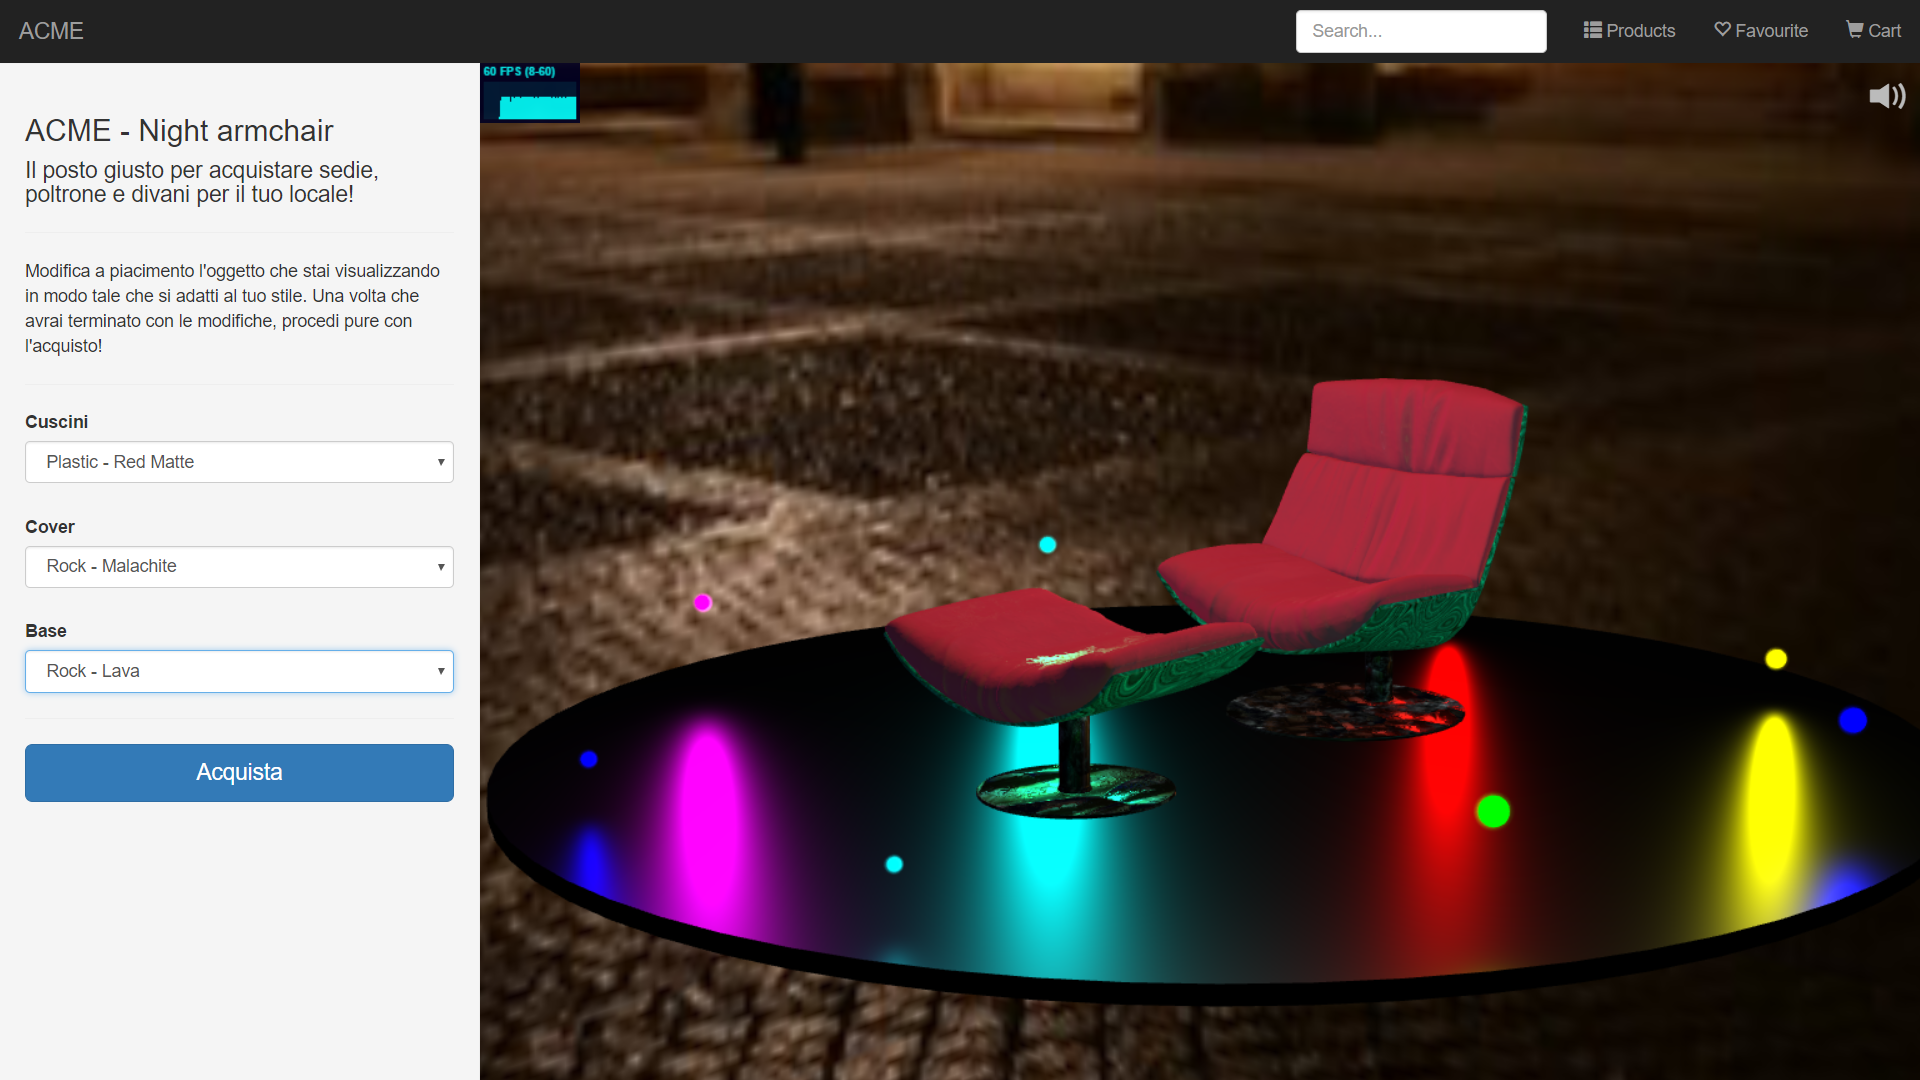
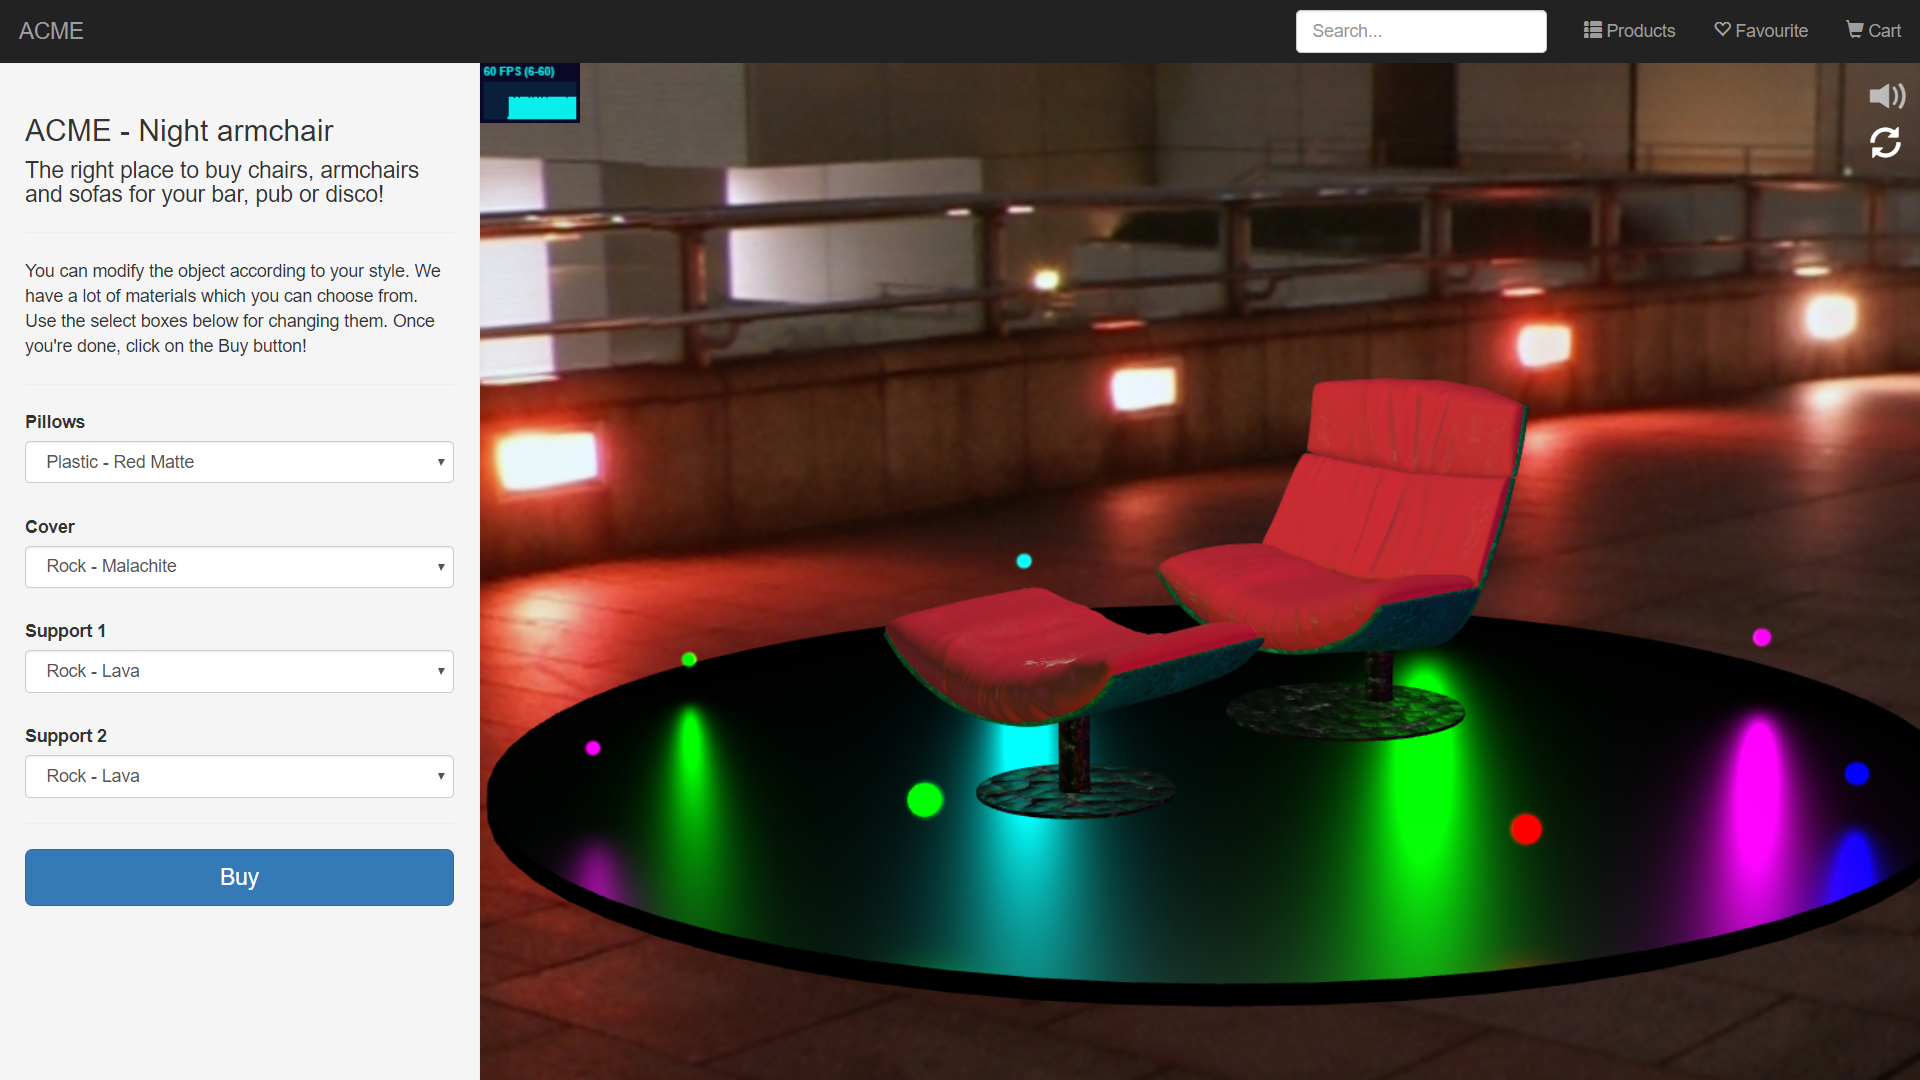
Screenshots updated
Other minor changes

diff --git a/index.html b/index.html
@@ -384,7 +384,7 @@
 				}
 			}
 
-			var textureRepeats = [4, 4, 4, 2];
+			var textureRepeats = [4, 4, 2, 4];
 
 
 			// -- UNIFORMS --
